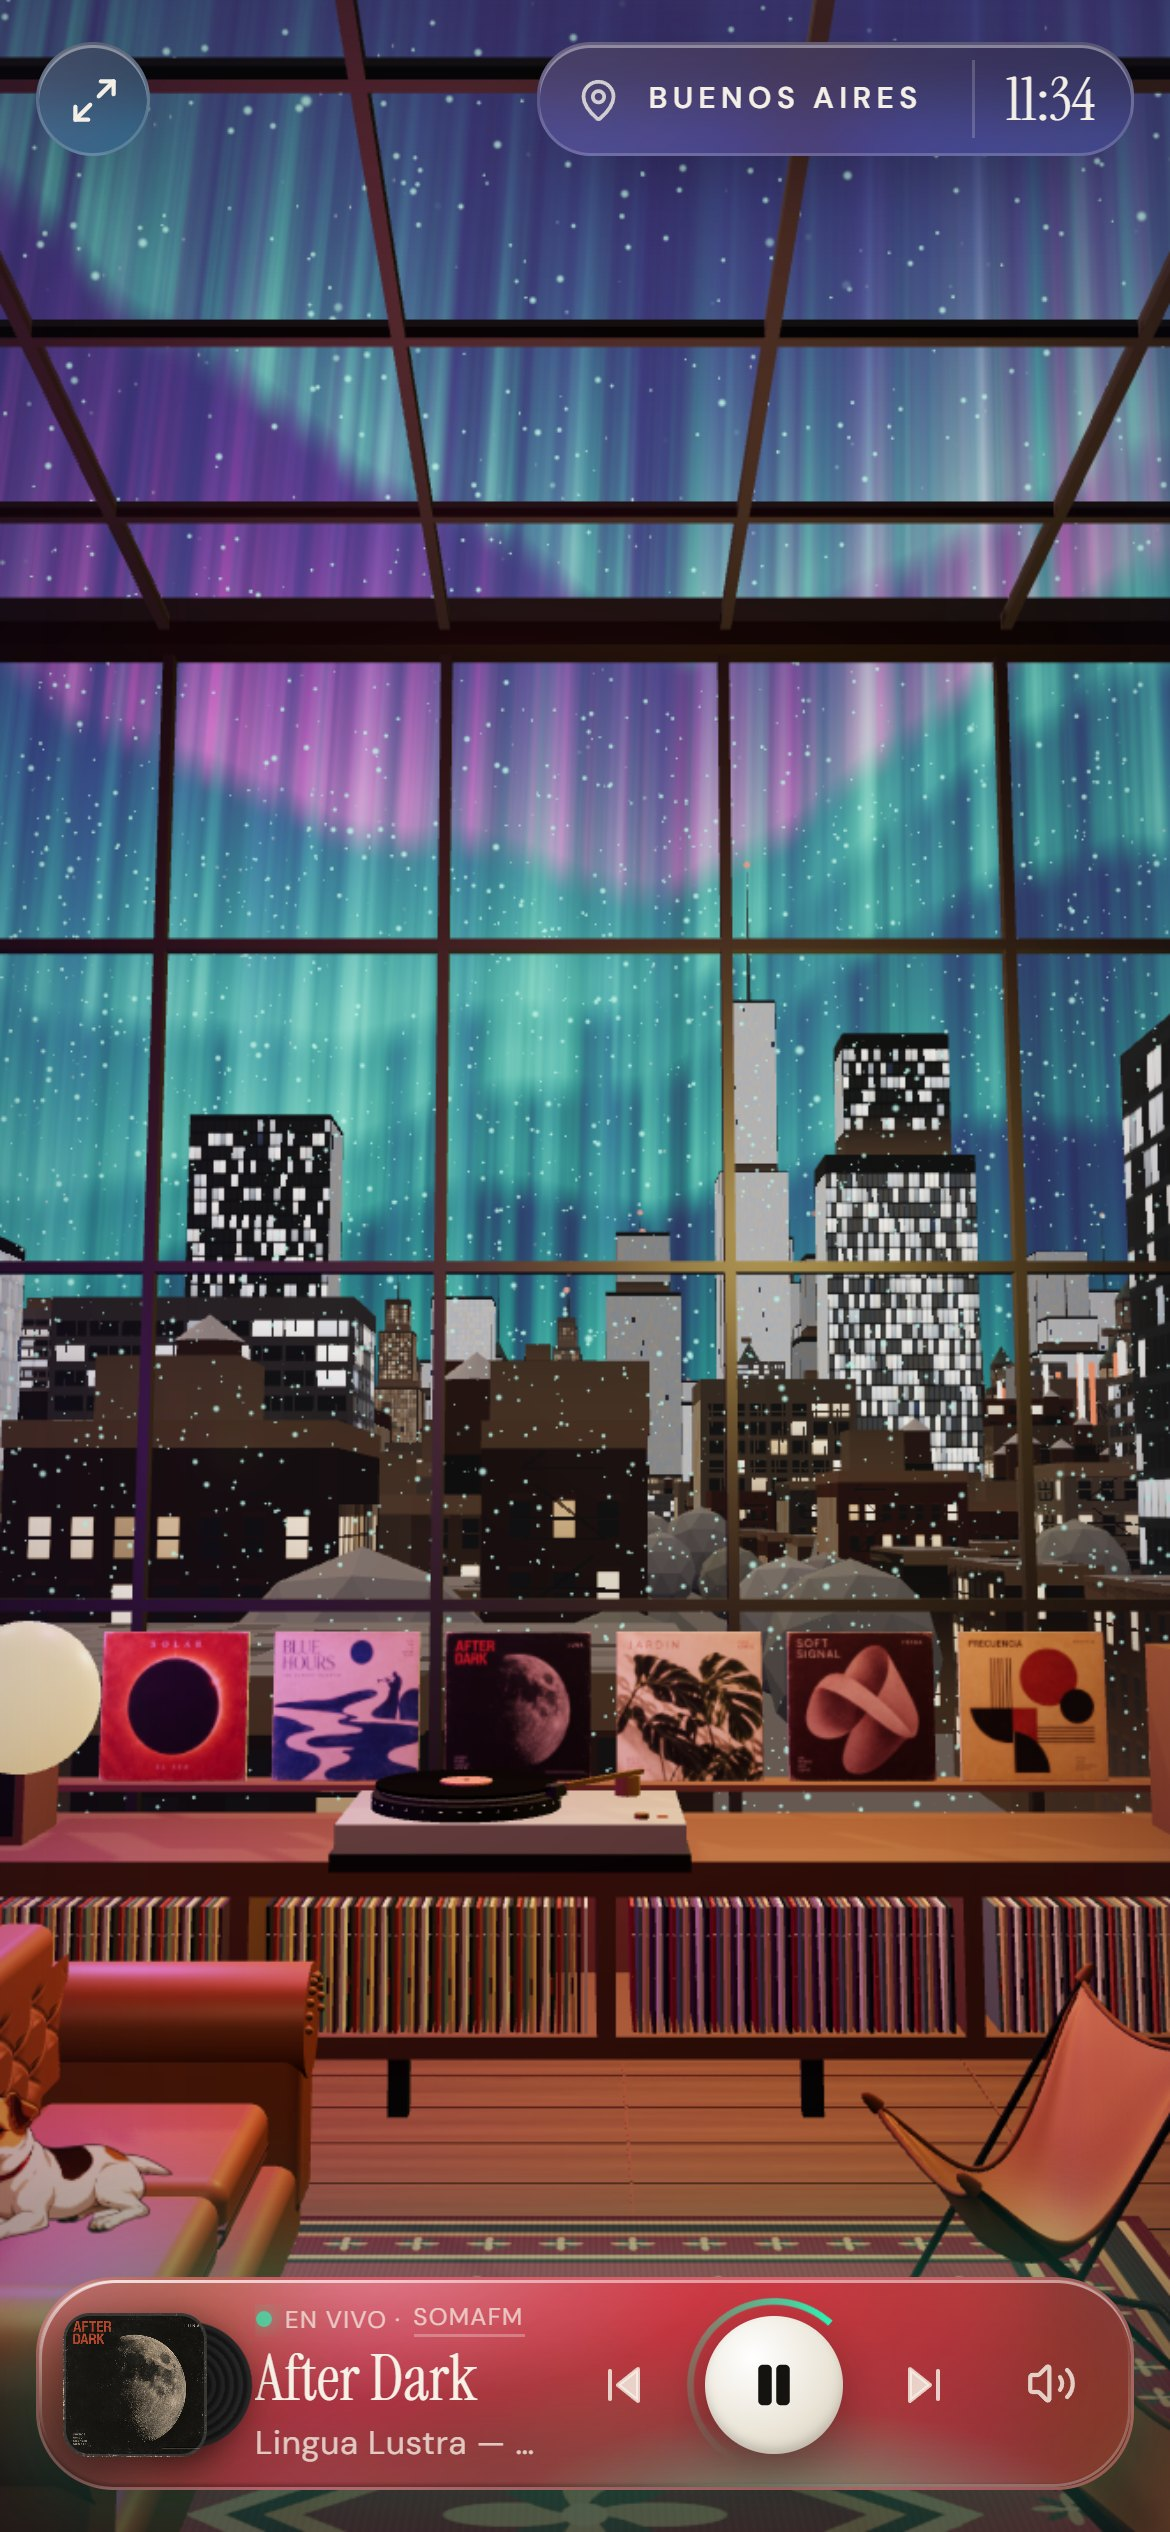
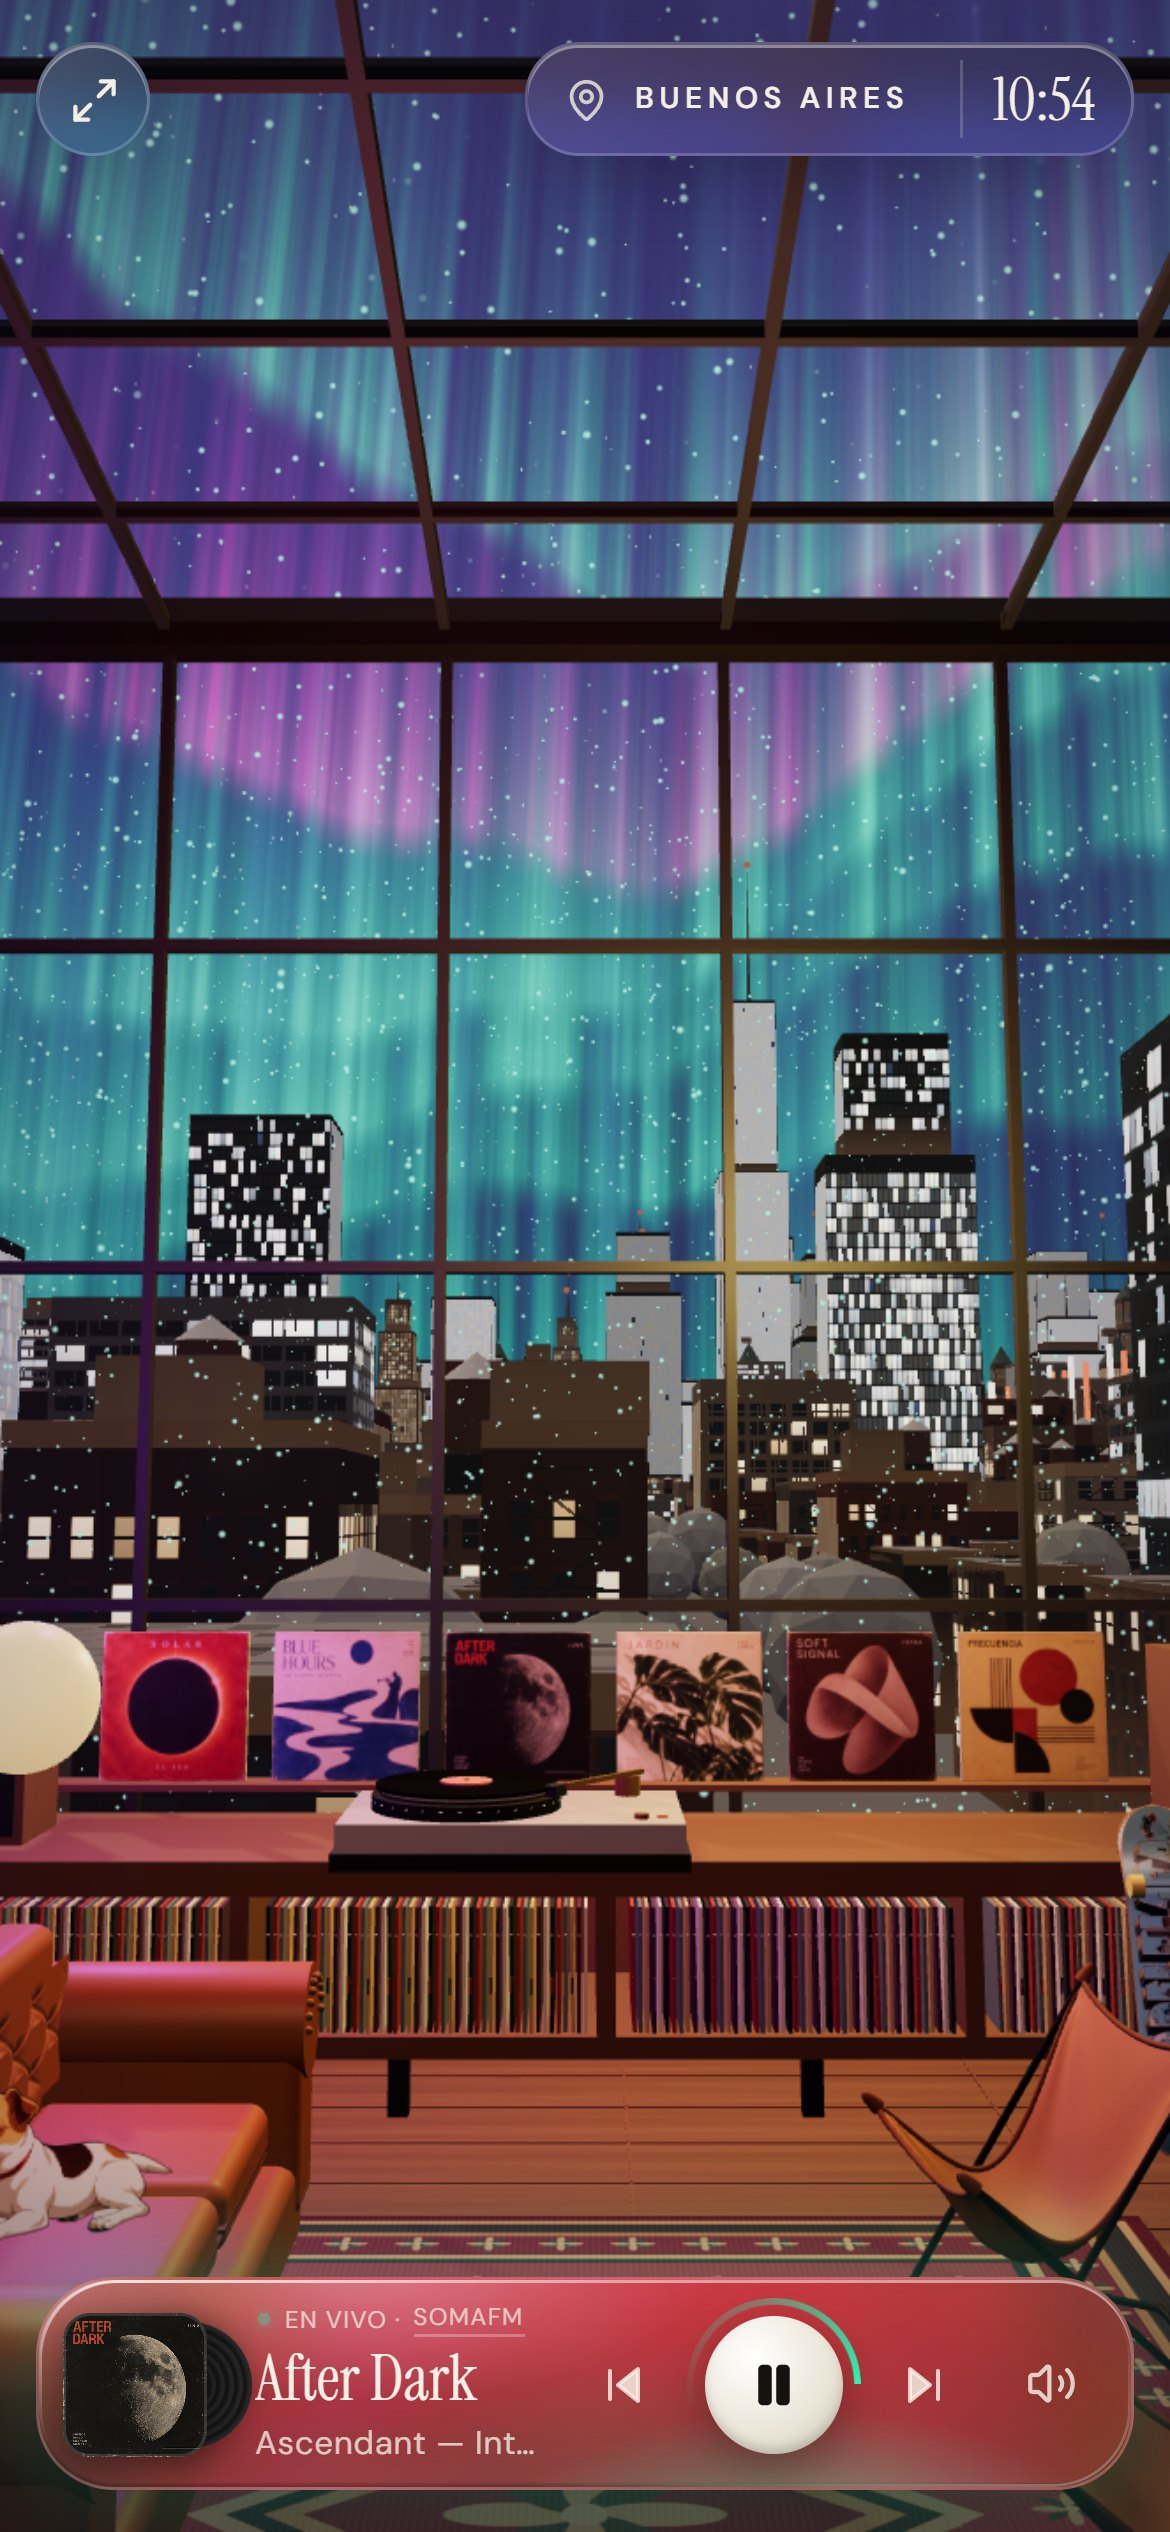
Bici colgada y skate apoyado en la consola
- Bici single speed de aluminio colgada en ganchos en la pared del fondo, con
  reflejos propios (RoomEnvironment) para que el metal no se vea gris plano
- Skate con la gráfica de Mar del Plata apoyado en el borde de la consola
- Crédito de la gráfica en el README y capturas actualizadas

diff --git a/app/rides.ts b/app/rides.ts
@@ -1,0 +1,102 @@
+import * as THREE from "three";
+import { RoomEnvironment } from "three/examples/jsm/environments/RoomEnvironment.js";
+
+// Things that roll: a skateboard leaning on the record console and a silver single-speed hung on hooks on the rear brick
+// wall. Both are modelled in metres; the board is scaled ×1.4 like the other props (the loft is built ~1.4×) and the bike
+// a little more so it holds its own on the tall brick wall.
+export function addRides(scene: THREE.Scene, materials: THREE.Material[], textures: THREE.Texture[], renderer: THREE.WebGLRenderer) {
+  const S=1.4,BIKE=1.7,up=new THREE.Vector3(0,1,0),V=(x:number,y:number,z=0)=>new THREE.Vector3(x,y,z);
+  const mat=(color:string,roughness=.6,metalness=0)=>{const m=new THREE.MeshStandardMaterial({color,roughness,metalness});materials.push(m);return m;};
+  // The room has no environment map, so bare metal reads flat grey; the metal parts get a soft studio reflection instead.
+  const pmrem=new THREE.PMREMGenerator(renderer),room=new RoomEnvironment(),reflections=pmrem.fromScene(room,.04).texture;
+  room.dispose();pmrem.dispose();textures.push(reflections);
+  const metal=(color:string,roughness:number,intensity:number,anisotropy=0)=>{const m=new THREE.MeshPhysicalMaterial({color,roughness,metalness:1,envMap:reflections,envMapIntensity:intensity,anisotropy,anisotropyRotation:Math.PI/2});materials.push(m);return m;};
+  // Brushed aluminium frame and bars, polished rims and chainring, darker steel for the chain and axles.
+  const silver=metal("#9da3aa",.34,.5,.8),chrome=metal("#c4c8cc",.16,.6),steel=metal("#6f7377",.4,.45),black=mat("#1d1d1e",.5,.15),rubber=mat("#141414",.9),cream=mat("#e8c45e",.55);
+  function mesh(geometry:THREE.BufferGeometry,m:THREE.Material|THREE.Material[],parent:THREE.Object3D,x=0,y=0,z=0){const o=new THREE.Mesh(geometry,m);o.position.set(x,y,z);o.castShadow=true;o.receiveShadow=true;parent.add(o);return o;}
+  function tube(a:THREE.Vector3,b:THREE.Vector3,r:number,m:THREE.Material,parent:THREE.Object3D){const d=b.clone().sub(a),o=mesh(new THREE.CylinderGeometry(r,r,d.length(),12),m,parent);o.position.copy(a).addScaledVector(d,.5);o.quaternion.setFromUnitVectors(up,d.normalize());return o;}
+  const alongZ=(o:THREE.Object3D)=>{o.rotation.x=Math.PI/2;return o;};
+
+  // ── Bike, drawn in its own plane (x forward, y up); the wall is behind at local z −.257.
+  const bike=new THREE.Group();bike.position.set(-4.15,3.15,-4.6+.257*BIKE);bike.scale.setScalar(BIKE);scene.add(bike);
+  const R=V(-.5,0),F=V(.52,0),BB=V(-.08,-.07),ST=V(-.21,.5),HT=V(.36,.52),HB=V(.39,.37);
+  tube(ST,HT,.016,silver,bike);tube(BB,HB,.02,silver,bike);tube(BB,ST,.016,silver,bike);tube(HB,HT.clone().add(V(-.005,.03)),.022,silver,bike);
+  for(const s of [-1,1]){
+    tube(V(BB.x,BB.y,s*.03),V(R.x,R.y,s*.06),.009,silver,bike);
+    tube(V(ST.x-.015,ST.y-.03,s*.02),V(R.x,R.y,s*.06),.008,silver,bike);
+    tube(V(HB.x,HB.y,s*.03),V(F.x,F.y,s*.05),.011,black,bike);
+  }
+  mesh(new THREE.BoxGeometry(.05,.03,.1),black,bike,HB.x,HB.y,0);
+  // Stem, flat bar with black grips, a brake lever and its cable.
+  const bar=V(.43,.585);tube(HT,bar,.014,silver,bike);
+  tube(V(bar.x,bar.y,-.25),V(bar.x,bar.y,.25),.012,silver,bike);
+  for(const s of [-1,1])tube(V(bar.x,bar.y,s*.17),V(bar.x,bar.y,s*.26),.018,black,bike);
+  tube(V(bar.x,bar.y,.15),V(bar.x+.08,bar.y-.03,.19),.005,steel,bike);
+  const cable=new THREE.CatmullRomCurve3([V(bar.x,bar.y,.14),V(bar.x-.06,bar.y+.1,.1),V(HT.x-.05,HT.y+.08,.02),V(HB.x+.02,HB.y-.02,.03)]);
+  mesh(new THREE.TubeGeometry(cable,24,.004,6),black,bike);
+  // Seatpost and a slim black saddle.
+  tube(ST,V(-.235,.6),.013,silver,bike);
+  const saddle=mesh(new THREE.SphereGeometry(1,20,12),black,bike,-.25,.625,0);saddle.scale.set(.13,.028,.07);
+  const nose=mesh(new THREE.SphereGeometry(1,16,10),black,bike,-.15,.628,0);nose.scale.set(.07,.02,.025);
+  // Wheels: tyre, polished rim, hub and wire spokes (one LineSegments per wheel).
+  const spokeMaterial=new THREE.LineBasicMaterial({color:"#9ea3a8"});materials.push(spokeMaterial);
+  for(const c of [R,F]){
+    const w=new THREE.Group();w.position.copy(c);bike.add(w);
+    mesh(new THREE.TorusGeometry(.335,.017,10,64),rubber,w);mesh(new THREE.TorusGeometry(.316,.011,8,64),chrome,w);
+    alongZ(mesh(new THREE.CylinderGeometry(.02,.02,.1,14),chrome,w));
+    const points:THREE.Vector3[]=[];
+    for(let i=0;i<24;i++){const a=i/24*Math.PI*2,side=i%2?.035:-.035;points.push(V(Math.cos(a+.3)*.02,Math.sin(a+.3)*.02,side),V(Math.cos(a)*.31,Math.sin(a)*.31,0));}
+    w.add(new THREE.LineSegments(new THREE.BufferGeometry().setFromPoints(points),spokeMaterial));
+  }
+  // Drivetrain: chainring, cog, chain runs, cranks and pedals.
+  mesh(new THREE.TorusGeometry(.09,.006,6,40),chrome,bike,BB.x,BB.y,.045);
+  alongZ(mesh(new THREE.CylinderGeometry(.075,.075,.004,24),steel,bike,BB.x,BB.y,.045));
+  mesh(new THREE.TorusGeometry(.034,.005,6,24),steel,bike,R.x,R.y,.045);
+  tube(V(BB.x,BB.y+.09,.045),V(R.x,R.y+.034,.045),.004,steel,bike);tube(V(BB.x,BB.y-.09,.045),V(R.x,R.y-.034,.045),.004,steel,bike);
+  for(const [s,a] of [[1,-1.1],[-1,2.04]] as const){
+    const end=V(BB.x+Math.cos(a)*.165,BB.y+Math.sin(a)*.165,s*.07);
+    tube(V(BB.x,BB.y,s*.055),end,.009,chrome,bike);
+    mesh(new THREE.BoxGeometry(.09,.018,.07),black,bike,end.x,end.y,end.z+s*.035);
+  }
+  // Two wall hooks under the top tube.
+  for(const x of [-.02,.22]){const y=ST.y+(HT.y-ST.y)*(x-ST.x)/(HT.x-ST.x)-.025;tube(V(x,y,-.257),V(x,y,.03),.007,black,bike);tube(V(x,y,.03),V(x,y+.04,.03),.007,black,bike);mesh(new THREE.BoxGeometry(.04,.06,.01),black,bike,x,y,-.252);}
+
+  // ── Skateboard, modelled lying flat (x along the deck, grip up), then stood on its tail against the record shelves.
+  // The deck is three bent stadium-shaped sheets: printed underside (public/art/skate-deck.webp, a portrait image whose
+  // alpha already follows the outline), a wood core that shows as the edge, and black grip tape on top.
+  // Drawn a bit larger than life (×1.9) so it stands taller than the 1.26 console top.
+  const SKATE=1.9,L=.8,W=.205,FLAT=.2,KICK=.26;
+  function sheet(offset:number,grow:number,round:boolean){
+    const geometry=new THREE.PlaneGeometry(W*grow,L*grow,6,64),p=geometry.attributes.position;
+    for(let i=0;i<p.count;i++){
+      const across=p.getX(i),along=p.getY(i),end=Math.abs(along)-(L*grow/2-W*grow/2);
+      // Round the ends for the plain sheets (the print carries its own outline in alpha).
+      const width=round&&end>0?Math.sqrt(Math.max(0,1-(end/(W*grow/2))**2)):1;
+      const lift=Math.max(0,Math.abs(along)-FLAT)*Math.tan(KICK);
+      p.setXYZ(i,along,offset+lift,-across*width);   // mirrored so the print reads right way round from the room
+    }
+    geometry.computeVertexNormals();return geometry;
+  }
+  const deckTexture=new THREE.TextureLoader().load("/art/skate-deck.webp");deckTexture.colorSpace=THREE.SRGBColorSpace;deckTexture.anisotropy=8;textures.push(deckTexture);
+  const print=new THREE.MeshStandardMaterial({map:deckTexture,alphaTest:.5,roughness:.45,side:THREE.DoubleSide});
+  const wood=new THREE.MeshStandardMaterial({color:"#c9a06a",roughness:.7,side:THREE.DoubleSide});
+  const grip=new THREE.MeshStandardMaterial({color:"#1c1c1e",roughness:.95,side:THREE.DoubleSide});
+  materials.push(print,wood,grip);
+  const skate=new THREE.Group(),board=new THREE.Group();skate.add(board);board.scale.setScalar(SKATE);scene.add(skate);
+  mesh(sheet(-.006,1,false),print,board);mesh(sheet(0,1.012,true),wood,board);mesh(sheet(.006,1,true),grip,board);
+  for(const s of [-1,1]){
+    // Truck: baseplate, hanger, axle and two wheels.
+    mesh(new THREE.BoxGeometry(.06,.012,.05),steel,board,s*.21,-.012,0);
+    mesh(new THREE.BoxGeometry(.03,.03,.16),silver,board,s*.21,-.036,0);
+    alongZ(mesh(new THREE.CylinderGeometry(.004,.004,.21,8),steel,board,s*.21,-.05,0));
+    for(const z of [-.09,.09])alongZ(mesh(new THREE.CylinderGeometry(.027,.027,.032,18),cream,board,s*.21,-.05,z));
+  }
+  // Leaning back onto the front edge of the console top (x −3.96, y 1.26) so the upper nose clears the furniture,
+  // wheels toward the room, centred on a record bay clear of the speaker. Local (along, rise) maps to world
+  // (−along·sin − rise·cos, along·cos − rise·sin) for a board rotated π/2 + tilt about z.
+  const tilt=.2,c=Math.cos(tilt),s=Math.sin(tilt),EDGE_X=-3.96,EDGE_Y=1.26;
+  const tip=(L/2-FLAT)*Math.tan(KICK)+.006,y0=SKATE*(L/2*c+tip*s)+.005;
+  const along=((EDGE_Y-y0)/SKATE+.006*s)/c,rise=.006+Math.max(0,along-FLAT)*Math.tan(KICK);
+  skate.rotation.z=Math.PI/2+tilt;
+  skate.position.set(EDGE_X+SKATE*(along*s+rise*c),y0,-1.1);
+}

diff --git a/app/loft.tsx b/app/loft.tsx
@@ -10,6 +10,7 @@ import { addArchitecturalDetails } from "./architecture";
 import { addWorkspace } from "./workspace";
 import { addCity } from "./city";
 import { addGallery } from "./gallery";
+import { addRides } from "./rides";
 import { addDog, type DogSprites } from "./dog";
 import { addSnow } from "./snow";
 import { idleMood, moods } from "./moods";
@@ -161,6 +162,7 @@ export default function Loft({ onPrepare, onPlay, onPhase, getAudio, api }: Prop
     addArchitecturalDetails(scene,materials,textures);
     addWorkspace(scene,materials,textures);
     addGallery(scene,materials,textures);
+    addRides(scene,materials,textures,renderer);
     const city=addCity(scene,materials);
     const snow=addSnow(scene,materials);
     // Mood state eases toward the playing record's palette and dynamics (moods.ts) so record changes cross-fade.

diff --git a/CLAUDE.md b/CLAUDE.md
@@ -79,6 +79,11 @@ app/gallery.ts    Cuadros enmarcados, dibujados en canvas salvo los afiches "Las
                   y la compu (`public/art/compu.jpg`,
                   `public/art/malvinas.jpg`, vía `print()` con encuadre cover). Par de cuadros iguales (4:5, 1.2 × 1.46) sobre la
                   consola DJ (pared del pilar, x −5.8) y una pieza grande arriba en la pared del fondo (z −4.6)
+app/rides.ts      Skate (×1.9, ~1.5 de alto) apoyado en el borde de la tapa de la consola (x −3.96, y 1.26; z −1.1, inclinado
+                  11°, la punta de arriba sobresale del mueble), ruedas hacia el living; tabla de tres láminas curvadas, la de abajo con `public/art/skate-deck.webp`, cuyo alfa ya
+                  sigue el contorno) y bici single speed colgada en ganchos en la pared del fondo (x −4.15, sobre la planta, ×1.7).
+                  Las piezas metálicas usan MeshPhysicalMaterial con un envMap propio (RoomEnvironment vía PMREM, por eso
+                  recibe el renderer): la escena no tiene environment y el metal sin reflejos se ve gris plano
 app/workspace.ts  Rincón habitado junto al pilar de ladrillo: mesa de nogal con consola DJ y un atril.
                   Props a escala real × S=1.4 (el loft está construido ~1.4×)
 app/city.ts       Brooklyn desde un 4.º piso, a escala real en metros (M=.56 unidades/m, calle en y=−14·M):

diff --git a/README.md b/README.md
@@ -71,7 +71,7 @@ Next.js y React con una escena 3D en Three.js construida por código: no hay mod
 
 - `app/loft.tsx` — escena, cámara, luces y animación del disco
 - `app/city.ts`, `app/snow.ts`, `app/aurora.ts` — el exterior
-- `app/lounge.ts`, `app/workspace.ts`, `app/gallery.ts`, `app/architecture.ts` — el interior
+- `app/lounge.ts`, `app/workspace.ts`, `app/gallery.ts`, `app/architecture.ts`, `app/rides.ts` — el interior
 - `app/dog.ts` — el perro del living
 - `app/solar.tsx`, `app/dock.tsx` — audio y reproductor
 - `app/place.tsx` — ciudad, clima y hora
@@ -90,5 +90,6 @@ Las portadas son arte original generado con IA (prompt en `IMAGE-PROMPT.md`). `M
   - *Festival Internacional de Cine de Mar del Plata, 1954*: afiche histórico del festival.
   - *Las Malvinas son argentinas*: afiche de Todo Bien Posta.
   - *Skate* y *Compu*: ilustraciones de autoría a confirmar.
+  - Gráfica de la tabla de skate (*Mar del Plata*): autoría a confirmar.
 
   Si sos autor/a de alguna y querés que se cambie el crédito o se retire, abrí un issue.
